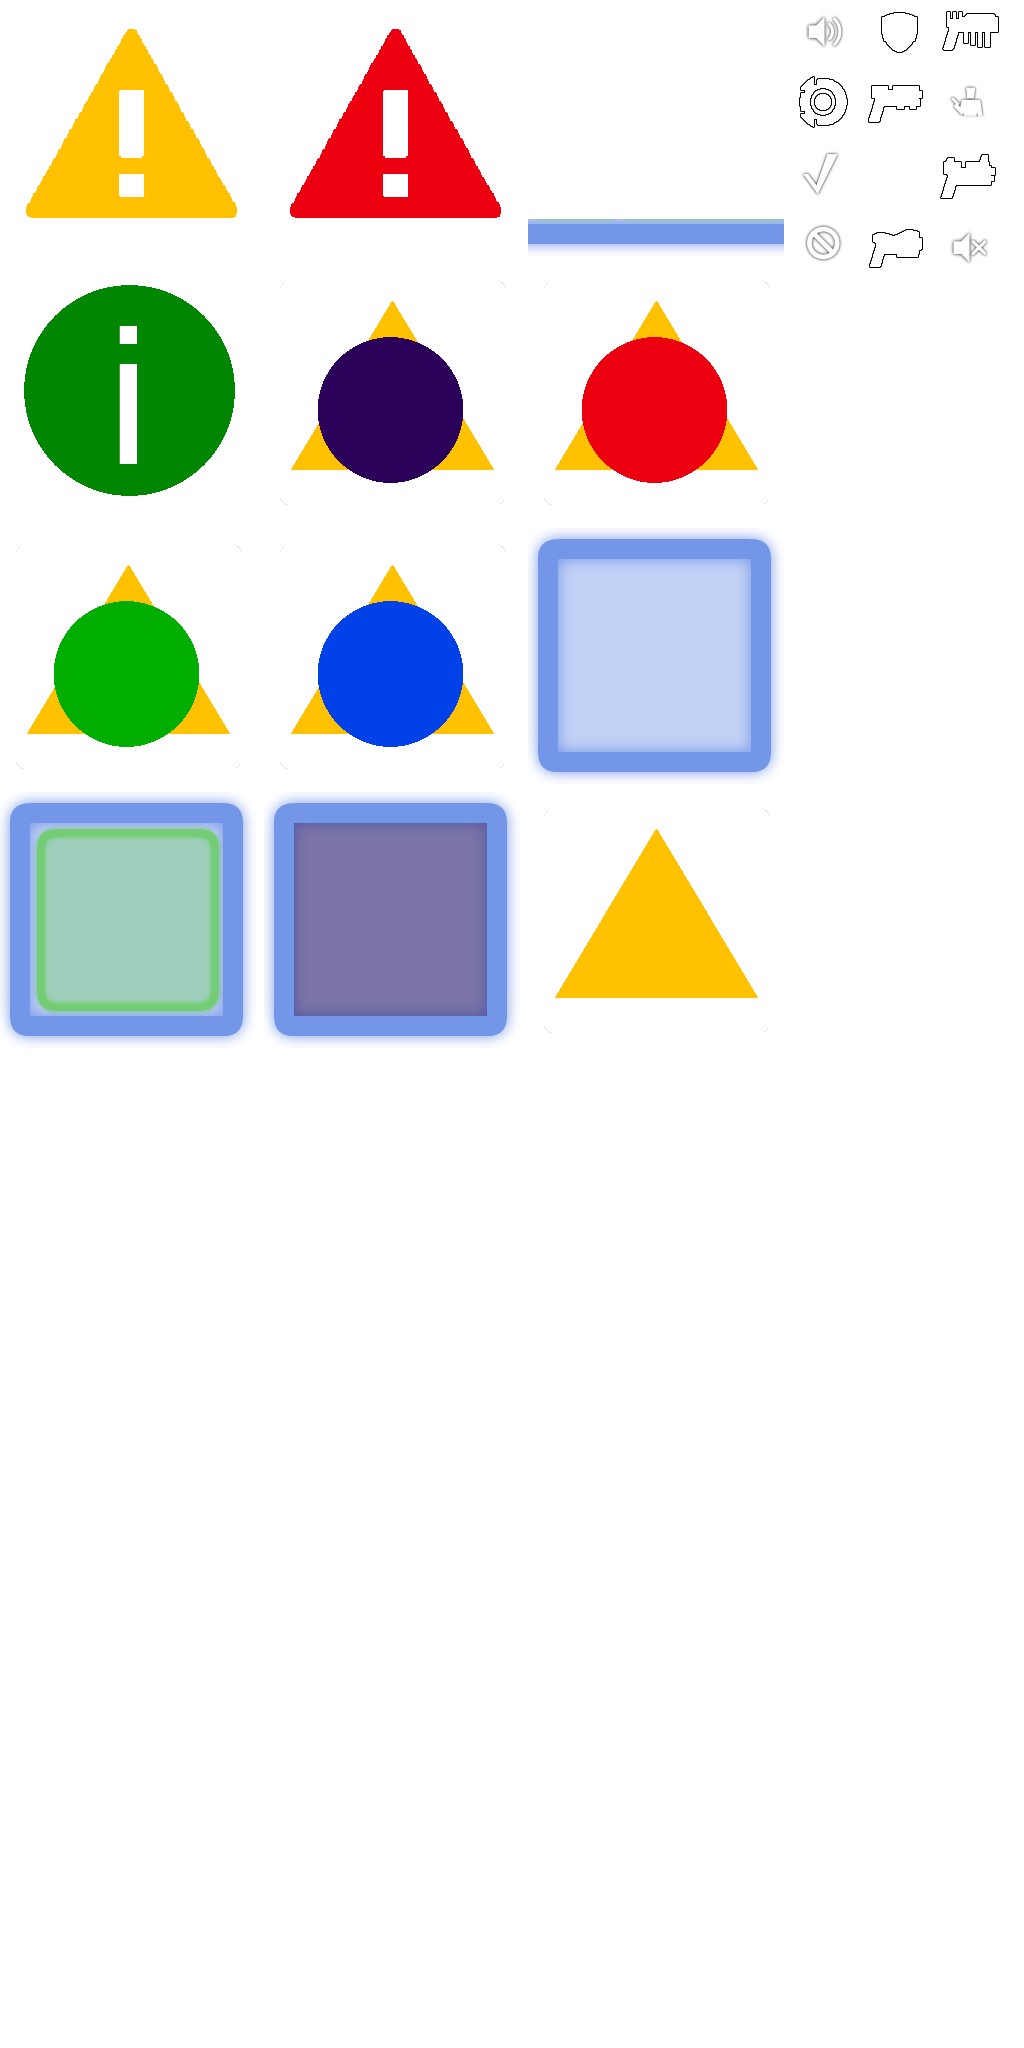
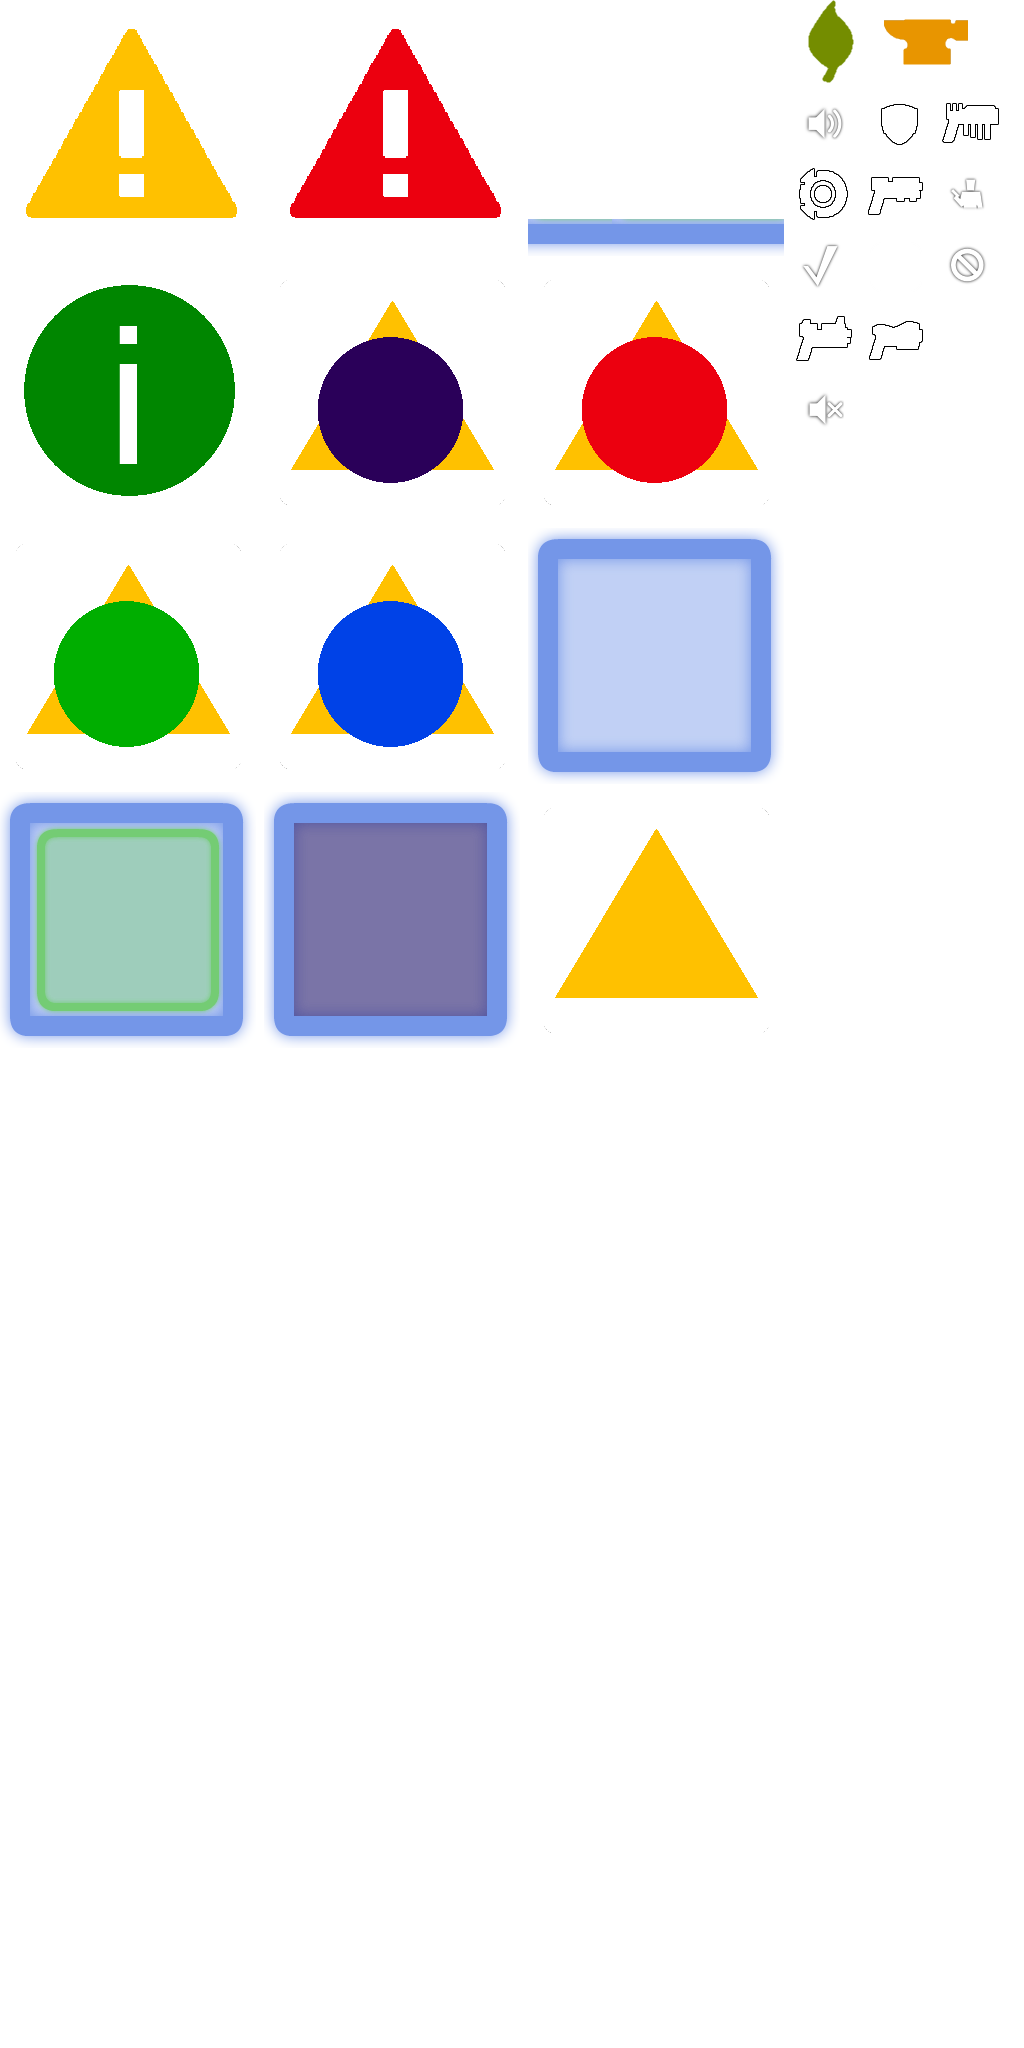
camera improvement

Changed region(s): [[0.7812, 0.0, 0.9688, 0.1562], [0.7812, 0.1875, 0.8125, 0.2188]]

diff --git a/xegame/cameracomponent.cpp b/xegame/cameracomponent.cpp
@@ -80,38 +80,53 @@ void CameraComponent::SetTrack( int targetID )
 }
 
 
-int CameraComponent::DoTick( U32 delta ) 
+int CameraComponent::DoTick(U32 delta)
 {
-	if ( Context()->chitBag->GetCameraChitID() != parentChit->ID() ) {
+	if (Context()->chitBag->GetCameraChitID() != parentChit->ID()) {
 		parentChit->QueueDelete();
 		return VERY_LONG_TICK;
 	}
 
-	switch ( mode ) {
+	float EASE = 0.2f;
 
-	case PAN:
+	switch (mode) {
+
+		case PAN:
 		{
-			float travel = Travel( speed, delta );
-			Vector3F toDest = ( dest - camera->PosWC() );
-			float lenToDest = toDest.Length();
+			/*
+				float travel = Travel( speed, delta );
+				Vector3F toDest = ( dest - camera->PosWC() );
+				float lenToDest = toDest.Length();
 
-			if ( lenToDest <= travel ) {
+				if ( lenToDest <= travel ) {
 				camera->SetPosWC( dest );
 				mode = DONE;
-			}
-			else {
+				}
+				else {
 				toDest.Normalize();
 				Vector3F v = toDest * travel;
 				camera->DeltaPosWC( v.x, v.y, v.z );
+				}
+				*/
+
+			Vector3F d = (dest - camera->PosWC());
+			Vector3F c = camera->PosWC();
+
+			if (d.Length() < 0.01f) {
+				camera->SetPosWC(dest.x, dest.y, dest.z);
+				mode = DONE;
+			}
+			else {
+				camera->SetPosWC(c.x + EASE*d.x, c.y + EASE*d.y, c.z + EASE*d.z);
 			}
 		}
 		break;
 
-	case TRACK:
+		case TRACK:
 		{
-			Chit* chit = Context()->chitBag->GetChit( targetChitID );
-			if ( chit && chit->GetSpatialComponent() ) {
-				
+			Chit* chit = Context()->chitBag->GetChit(targetChitID);
+			if (chit && chit->GetSpatialComponent()) {
+
 				Vector3F pos = chit->GetSpatialComponent()->GetPosition();
 				pos.y = 0;
 
@@ -119,30 +134,29 @@ int CameraComponent::DoTick( U32 delta )
 				// errors that occur from rotation, drift, etc.
 				const Vector3F* eye3 = camera->EyeDir3();
 				Vector3F at;
-				int result = IntersectRayPlane( camera->PosWC(), eye3[0], 1, 0.0f, &at );
-				if ( result == INTERSECT ) {
+				int result = IntersectRayPlane(camera->PosWC(), eye3[0], 1, 0.0f, &at);
+				if (result == INTERSECT) {
 					Vector3F t = (camera->PosWC() - at);
-					
+
 					//camera->SetPosWC( pos + t );
 					Vector3F c = camera->PosWC();
-					Vector3F d = (pos+t) - c;
-					float EASE = 0.2f;
+					Vector3F d = (pos + t) - c;
 
 					// If grid moving, the EASE contributes to jitter.
-					if ( GET_SUB_COMPONENT( chit, MoveComponent, GridMoveComponent )) {
+					if (GET_SUB_COMPONENT(chit, MoveComponent, GridMoveComponent)) {
 						EASE = 1.0f;
 					}
-					camera->SetPosWC( c.x+EASE*d.x, pos.y+t.y, c.z+EASE*d.z );
+					camera->SetPosWC(c.x + EASE*d.x, pos.y + t.y, c.z + EASE*d.z);
 				}
 			}
 		}
 		break;
 
-	case DONE:
+		case DONE:
 		break;
 
-	default:
-		GLASSERT( 0 );
+		default:
+		GLASSERT(0);
 	}
 	return 0;
 }

diff --git a/scenes/gamescene.cpp b/scenes/gamescene.cpp
@@ -125,12 +125,11 @@ GameScene::GameScene( LumosGame* game ) : Scene( game )
 		buildButton[i].Init( &gamui2D, game->GetButtonLook(0) );
 		buildButton[i].SetText( bd.label.safe_str() );
 
-		/* FIXME RESTORE when assets are checked in
 		if (bd.zoneCreate == BuildData::ZONE_INDUSTRIAL || bd.zoneConsume == BuildData::ZONE_INDUSTRIAL)
 			buildButton[i].SetDeco(game->CalcUIIconAtom("anvil", true), game->CalcUIIconAtom("anvil", false));
 		else if (bd.zoneCreate == BuildData::ZONE_NATURAL || bd.zoneConsume == BuildData::ZONE_NATURAL)
 			buildButton[i].SetDeco(game->CalcUIIconAtom("leaf", true), game->CalcUIIconAtom("leaf", false));
-		*/
+
 		buildButton[0].AddToToggleGroup( &buildButton[i] );
 		modeButton[bd.group].AddSubItem( &buildButton[i] );
 	}
